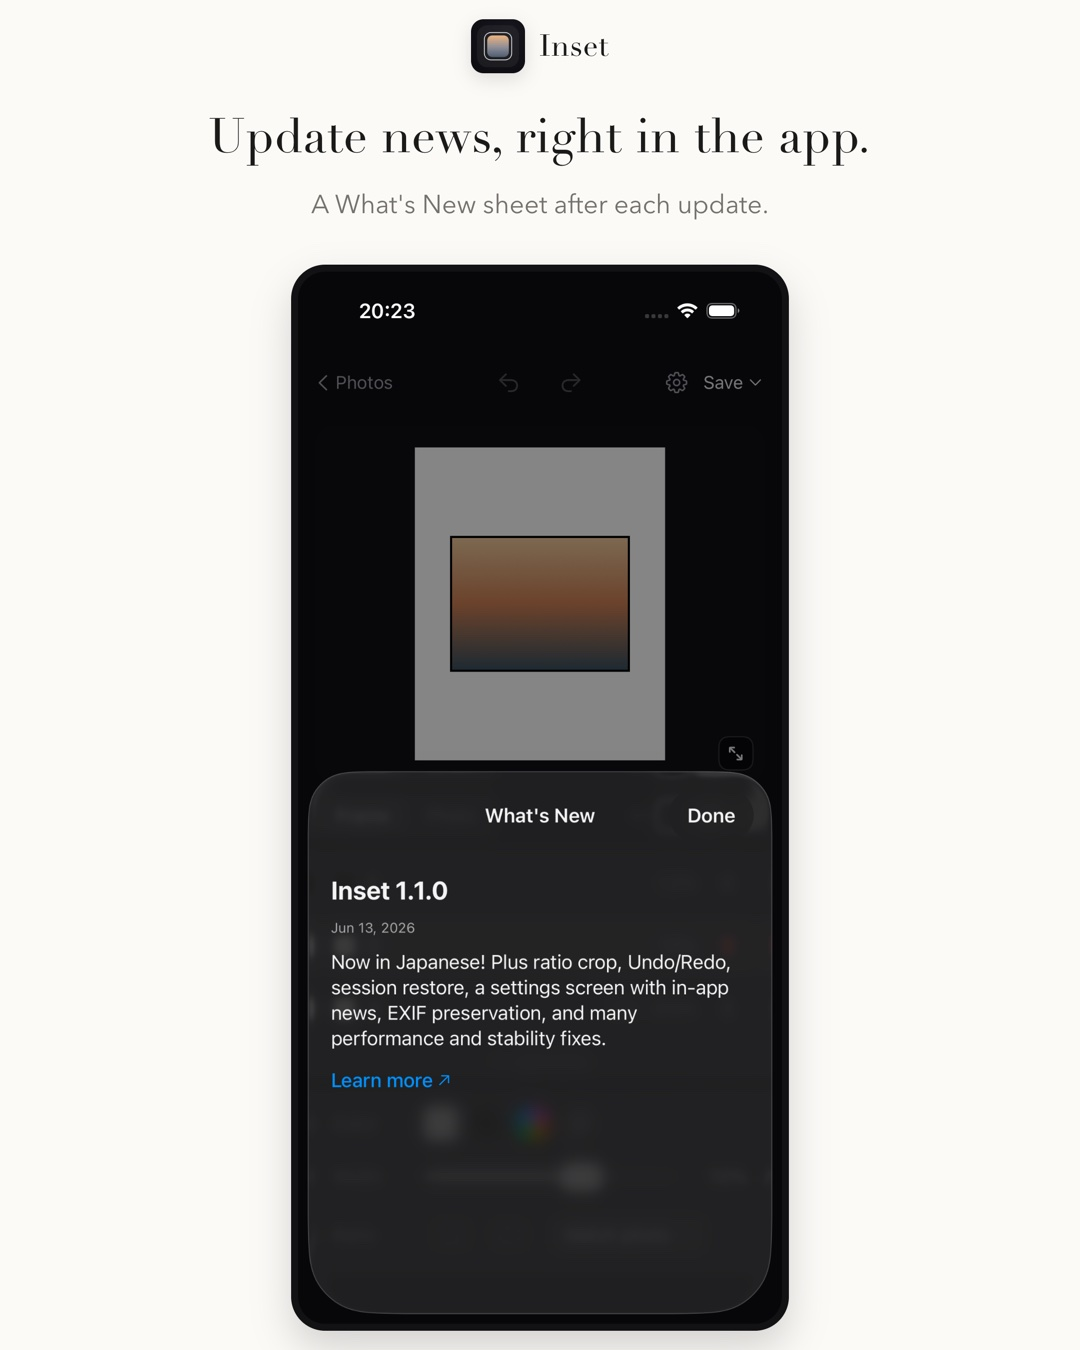
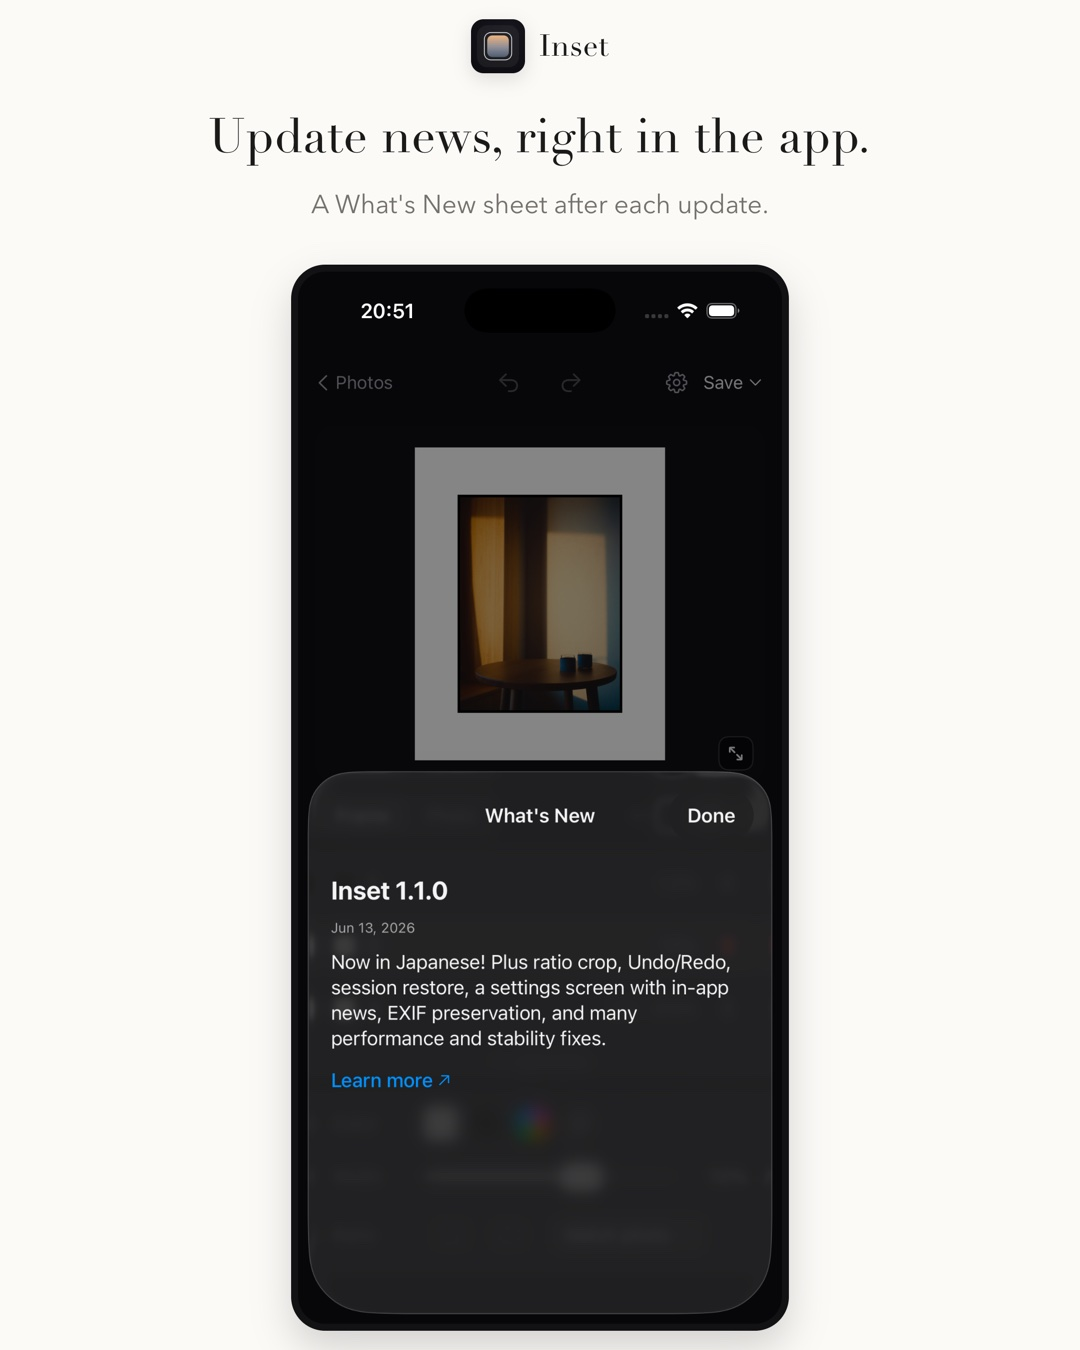
fix: news card with restored photo; crop copy includes 4:3

Changed region(s): [[0.3972, 0.3422, 0.5806, 0.5289], [0.3361, 0.2178, 0.3972, 0.2489]]

diff --git a/releases/1.1.0.html b/releases/1.1.0.html
@@ -100,7 +100,7 @@
   <section>
     <h2><span class="i-ja">編集がもっと自由に</span><span class="i-en">More freedom while editing</span></h2>
     <ul>
-      <li><b><span class="i-ja">比率を選べるクロップ</span><span class="i-en">Ratio crop</span></b> — <span class="i-ja">写真タブで 1:1 / 4:5 / 3:2 / 9:16 / 自由形式のクロップ、90° 回転、傾きの微調整ができます。</span><span class="i-en">Crop to 1:1, 4:5, 3:2, 9:16 or freeform in the Photo tab, rotate 90°, and fine-tune straightening.</span></li>
+      <li><b><span class="i-ja">比率を選べるクロップ</span><span class="i-en">Ratio crop</span></b> — <span class="i-ja">写真タブで 1:1 / 4:5 / 4:3 / 3:2 / 9:16 / 自由形式のクロップ、90° 回転、傾きの微調整ができます。</span><span class="i-en">Crop to 1:1, 4:5, 4:3, 3:2, 9:16 or freeform in the Photo tab, rotate 90°, and fine-tune straightening.</span></li>
       <li><b>Undo / Redo</b> — <span class="i-ja">編集操作をいつでも一手ずつ戻せます。思い切った調整も安心です。</span><span class="i-en">Step back through any edit. Experiment without worry.</span></li>
       <li><b><span class="i-ja">編集の続きから再開</span><span class="i-en">Pick up where you left off</span></b> — <span class="i-ja">アプリを閉じても、前回の写真とフレーム設定が復元されます。</span><span class="i-en">Close the app and your photo and frame setup are restored next time.</span></li>
       <li><b><span class="i-ja">EXIF 情報を保持</span><span class="i-en">EXIF preserved</span></b> — <span class="i-ja">書き出した写真に撮影情報（位置情報を含む）が引き継がれるようになりました。</span><span class="i-en">Exports now carry over capture metadata, including location.</span></li>
